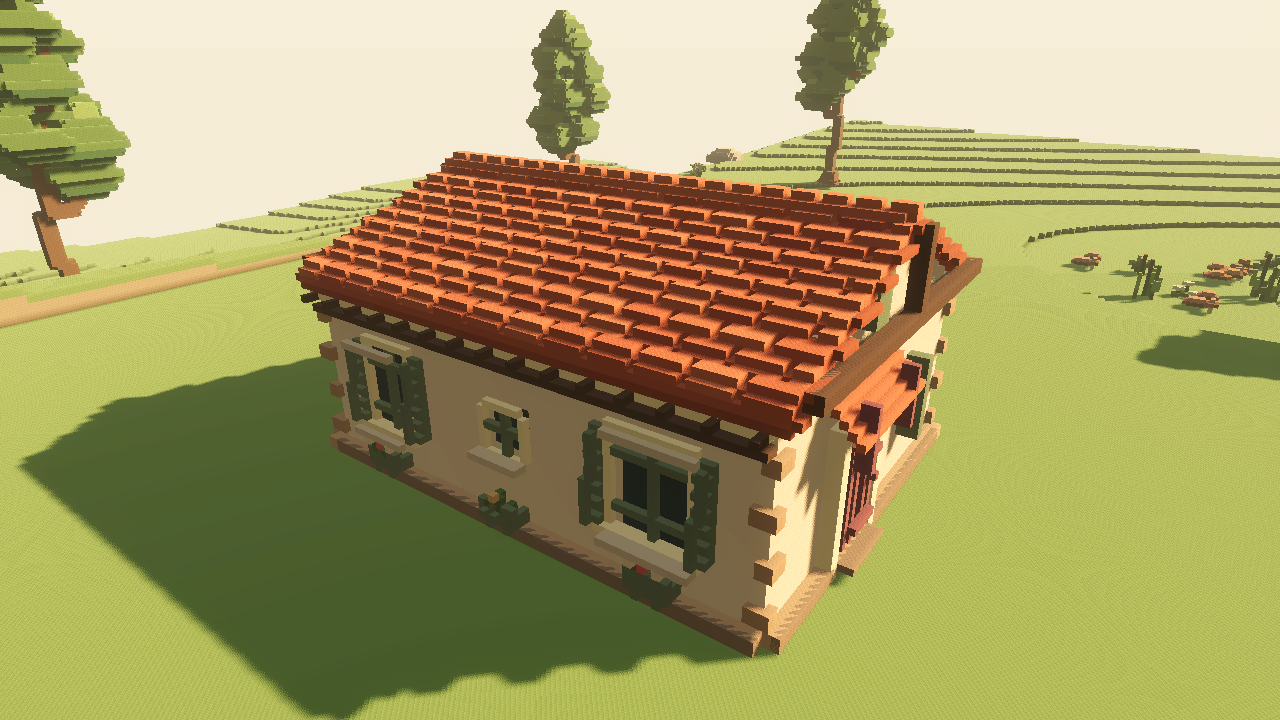
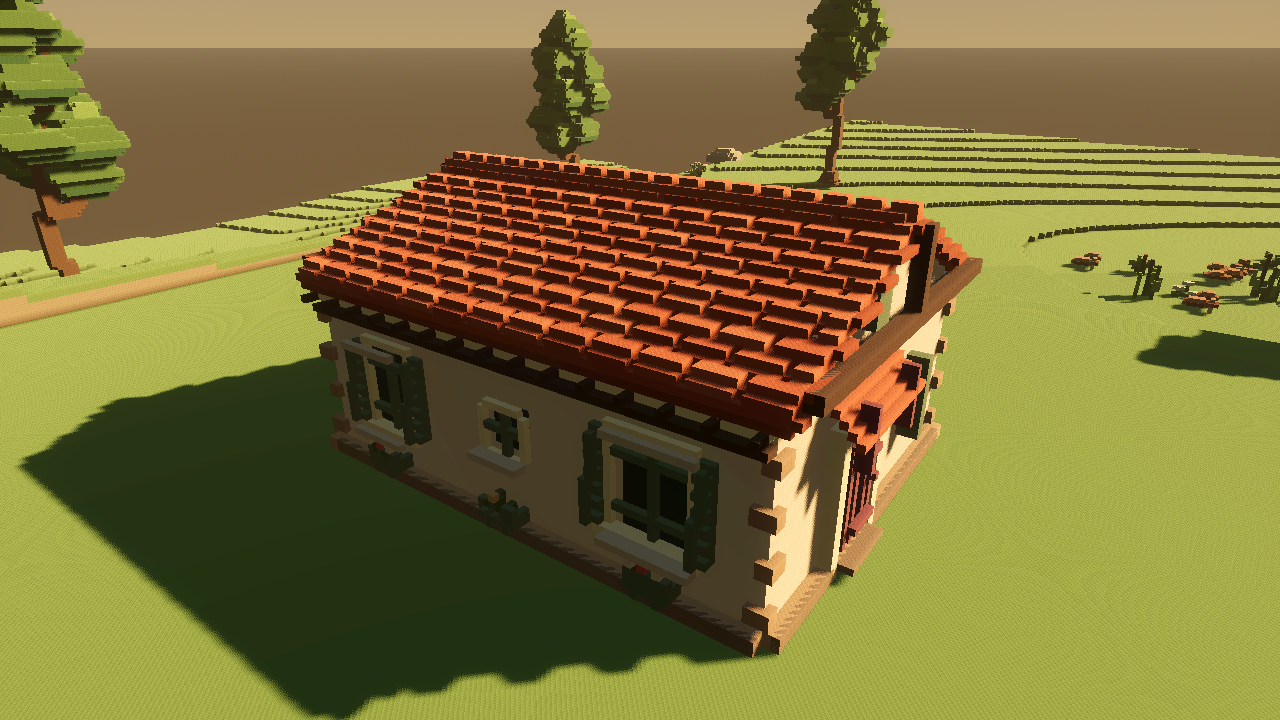
v5.3: warm dusk grade, sky/fog tuning, DOF proof + render gate tools, notes.md state/map

diff --git a/notes.md b/notes.md
@@ -117,7 +117,32 @@ file; never guess Godot API — use the probe.
   save both PNGs, diff must be visible in far band only, 3) fix repair test per Pali's
   disk-compare ask, 4) full gate, push, post frames.
 
-**NEW ACCEPTANCE CRITERION (Pali, 2026-09-15 mid-run):** the closeup
+## Hermes continued (2026-09-15, post-Nerine handoff) — v5.3 committed + next run
+- **v5.3 state committed this turn** (scripts/m1_scene.gd + m2_scene_upper_wall_details.gd
+  live env, cottage_detail_render_test tolerance, re-rendered screenshots, tool scripts).
+  Grade = baseline sat 1.06 / contrast 1.04; sky_top #7f9db5, horizon #e8c98e;
+  fog #e6c193 density 0.0021 sky_affect 0.12 depth 14-130.
+- **TEST EVIDENCE (measured, not inherited):** cottage_detail 33/0, facade 54/0,
+  m2_hamlet 12/0, scene_boot 4/0 | headless backend 83/0, visual_lighting 50/0,
+  m1_acceptance 112/0, foliage 57/0, magicavoxel 141/0.
+  `joined_roof_course_render_test` = **80 checks / 4 fails AT HEAD 186707f (stashed,
+  clean tree)** — PRE-EXISTING sub-quant drift, NOT a v5.3 regression. Same family as
+  the cottage identity flake. Open: deterministic re-render (see roof_head_check.sh).
+- **CRITICAL MAP (why DOF is invisible in the live game):**
+  - main_scene = scenes/m1.tscn -> scripts/m2_scene_style_preview_stability.gd (chain top).
+  - LIVE Camera3D created at `scripts/m2_scene_upper_wall_details.gd:88` (camera.fov=52,
+    NO attributes — this is the hamlet camera that needs DOF + pitch clamp).
+  - LIVE WorldEnvironment (sky/fog/glow/grade) built in `m2_scene_upper_wall_details.gd::_build_world`.
+  - `scripts/m1_scene.gd` (where _update_depth_of_field + dof_blur_* live) is **DEAD CODE**:
+    not referenced by the live chain. Its env edits don't affect the running game. Keep it
+    in sync for tests that load it, but the LIVE look/DOF must be changed in the m2 chain.
+  - Camera pitch clamps across chain: house_editing 0.08-1.40, pc_input 0.08-1.40,
+    roof_accessories 0.15-1.25. Pali's ask = clamp so camera can't tilt to expose sky.
+- **Next run (Bob brief, this handoff's step 3):** (a) clamp hamlet camera so it can't
+  expose sky, (b) extend hamlet cluster (content), (c) scatter distant farm/hill masses to
+  kill the "warm void", (d) wire REAL DOF into the LIVE m2 camera (m2_scene_upper_wall_details),
+  (e) keep grade at v5.3 baseline. Do NOT add new archetypes (Pali's asset list).
+- **NEW ACCEPTANCE CRITERION (Pali, 2026-09-15 mid-run):** the closeup
 cottage look is APPROVED ("very good up close"), but the WIDE shot
 (m2_hamlet_composition full hamlet) "is just hazy" — the fog is swamping
 the buildings. Fix: significantly reduce fog depth/density in the live
